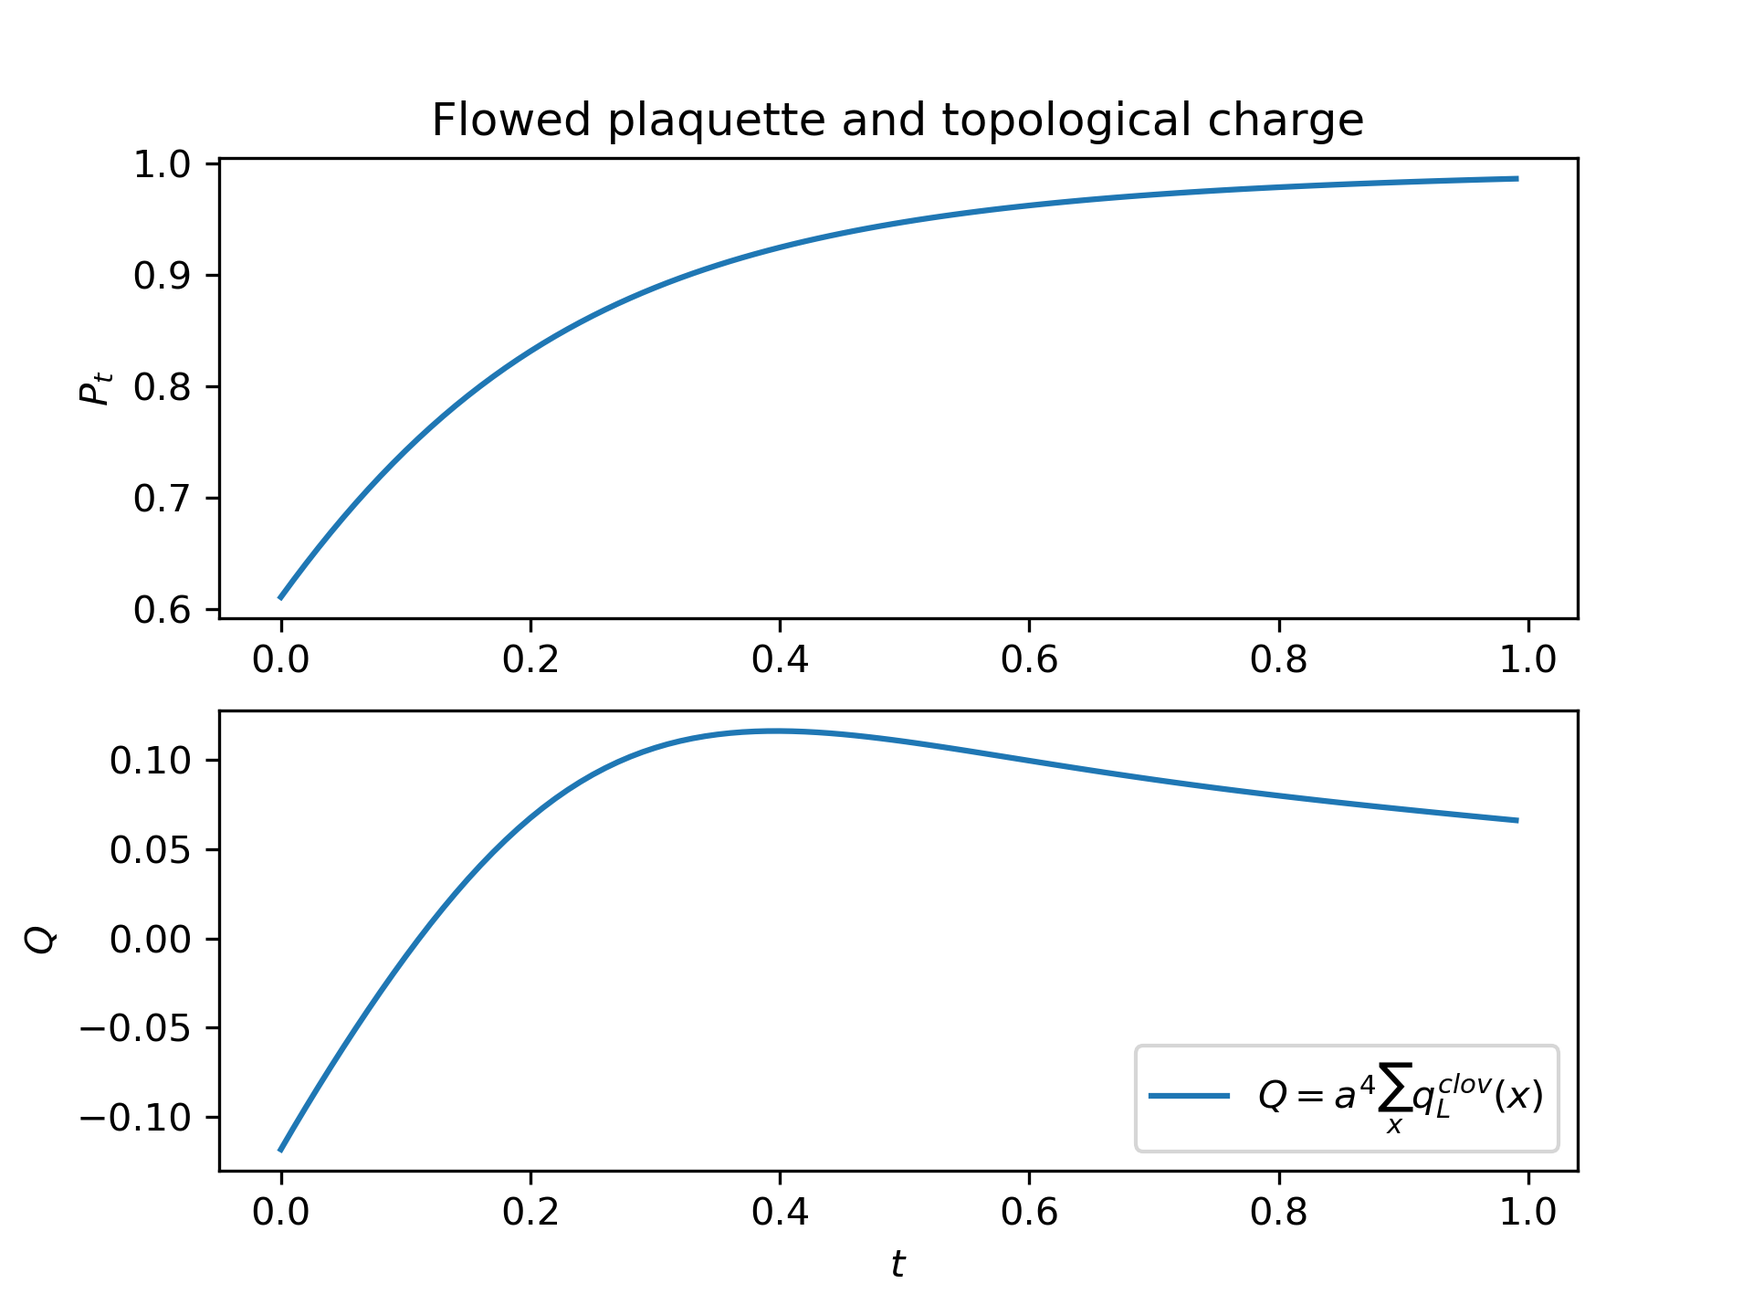
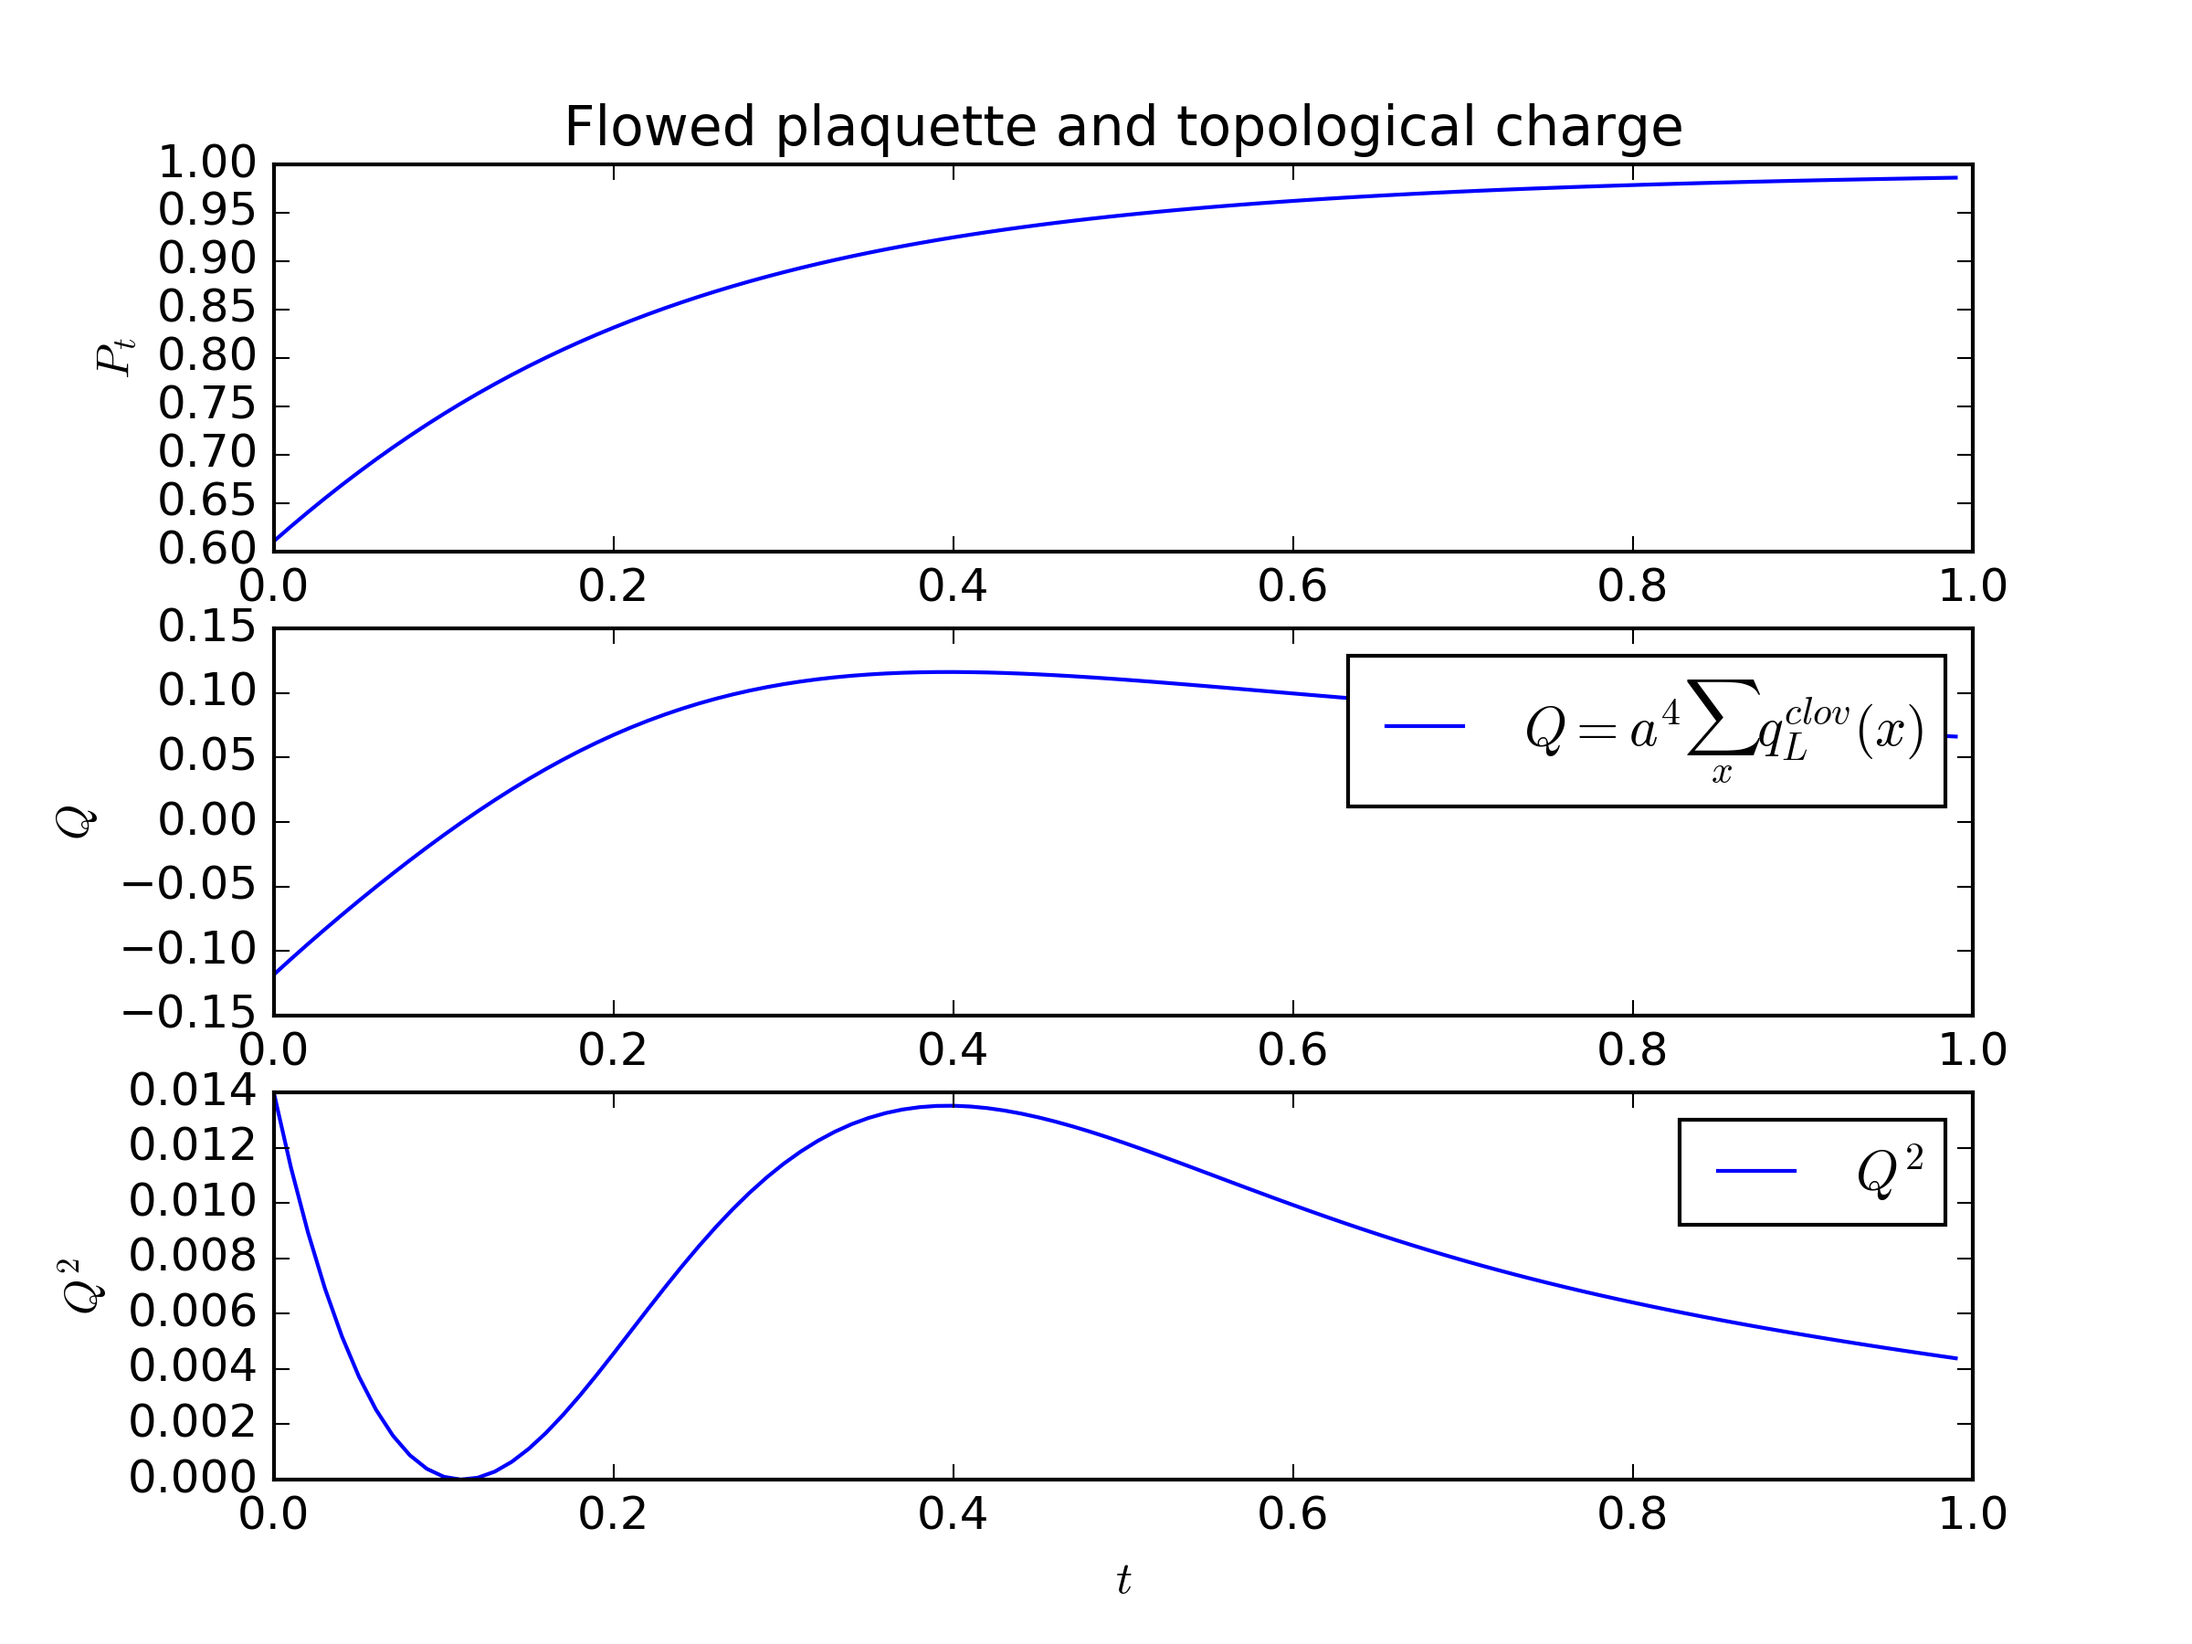
added Q² to quick analyser.

diff --git a/python_scripts/topChargeQuickAnalyser.py b/python_scripts/topChargeQuickAnalyser.py
@@ -121,15 +121,22 @@ def getData(arr):
 t,plaq,topc = getData(results)
 
 fig1 = plt.figure()
-ax1 = fig1.add_subplot(211)
+ax1 = fig1.add_subplot(311)
 ax1.plot(t,plaq)
 ax1.set_ylabel(r"$P_t$")
 ax1.set_title("Flowed plaquette and topological charge")
 
-ax2 = fig1.add_subplot(212)
+ax2 = fig1.add_subplot(312)
 ax2.plot(t,topc,label=r"$Q = a^4\sum_x q_L^{clov}(x)$")
 ax2.set_ylabel(r"$Q$")
 ax2.set_xlabel(r"$t$")
 ax2.legend()
+
+ax3 = fig1.add_subplot(313)
+ax3.plot(t,topc**2,label=r"$Q^2$")
+ax3.set_ylabel(r"$Q^2$")
+ax3.set_xlabel(r"$t$")
+ax3.legend()
+
 fig1.savefig("../figures/topological_charge_test.png",dpi=300)
 plt.show()
